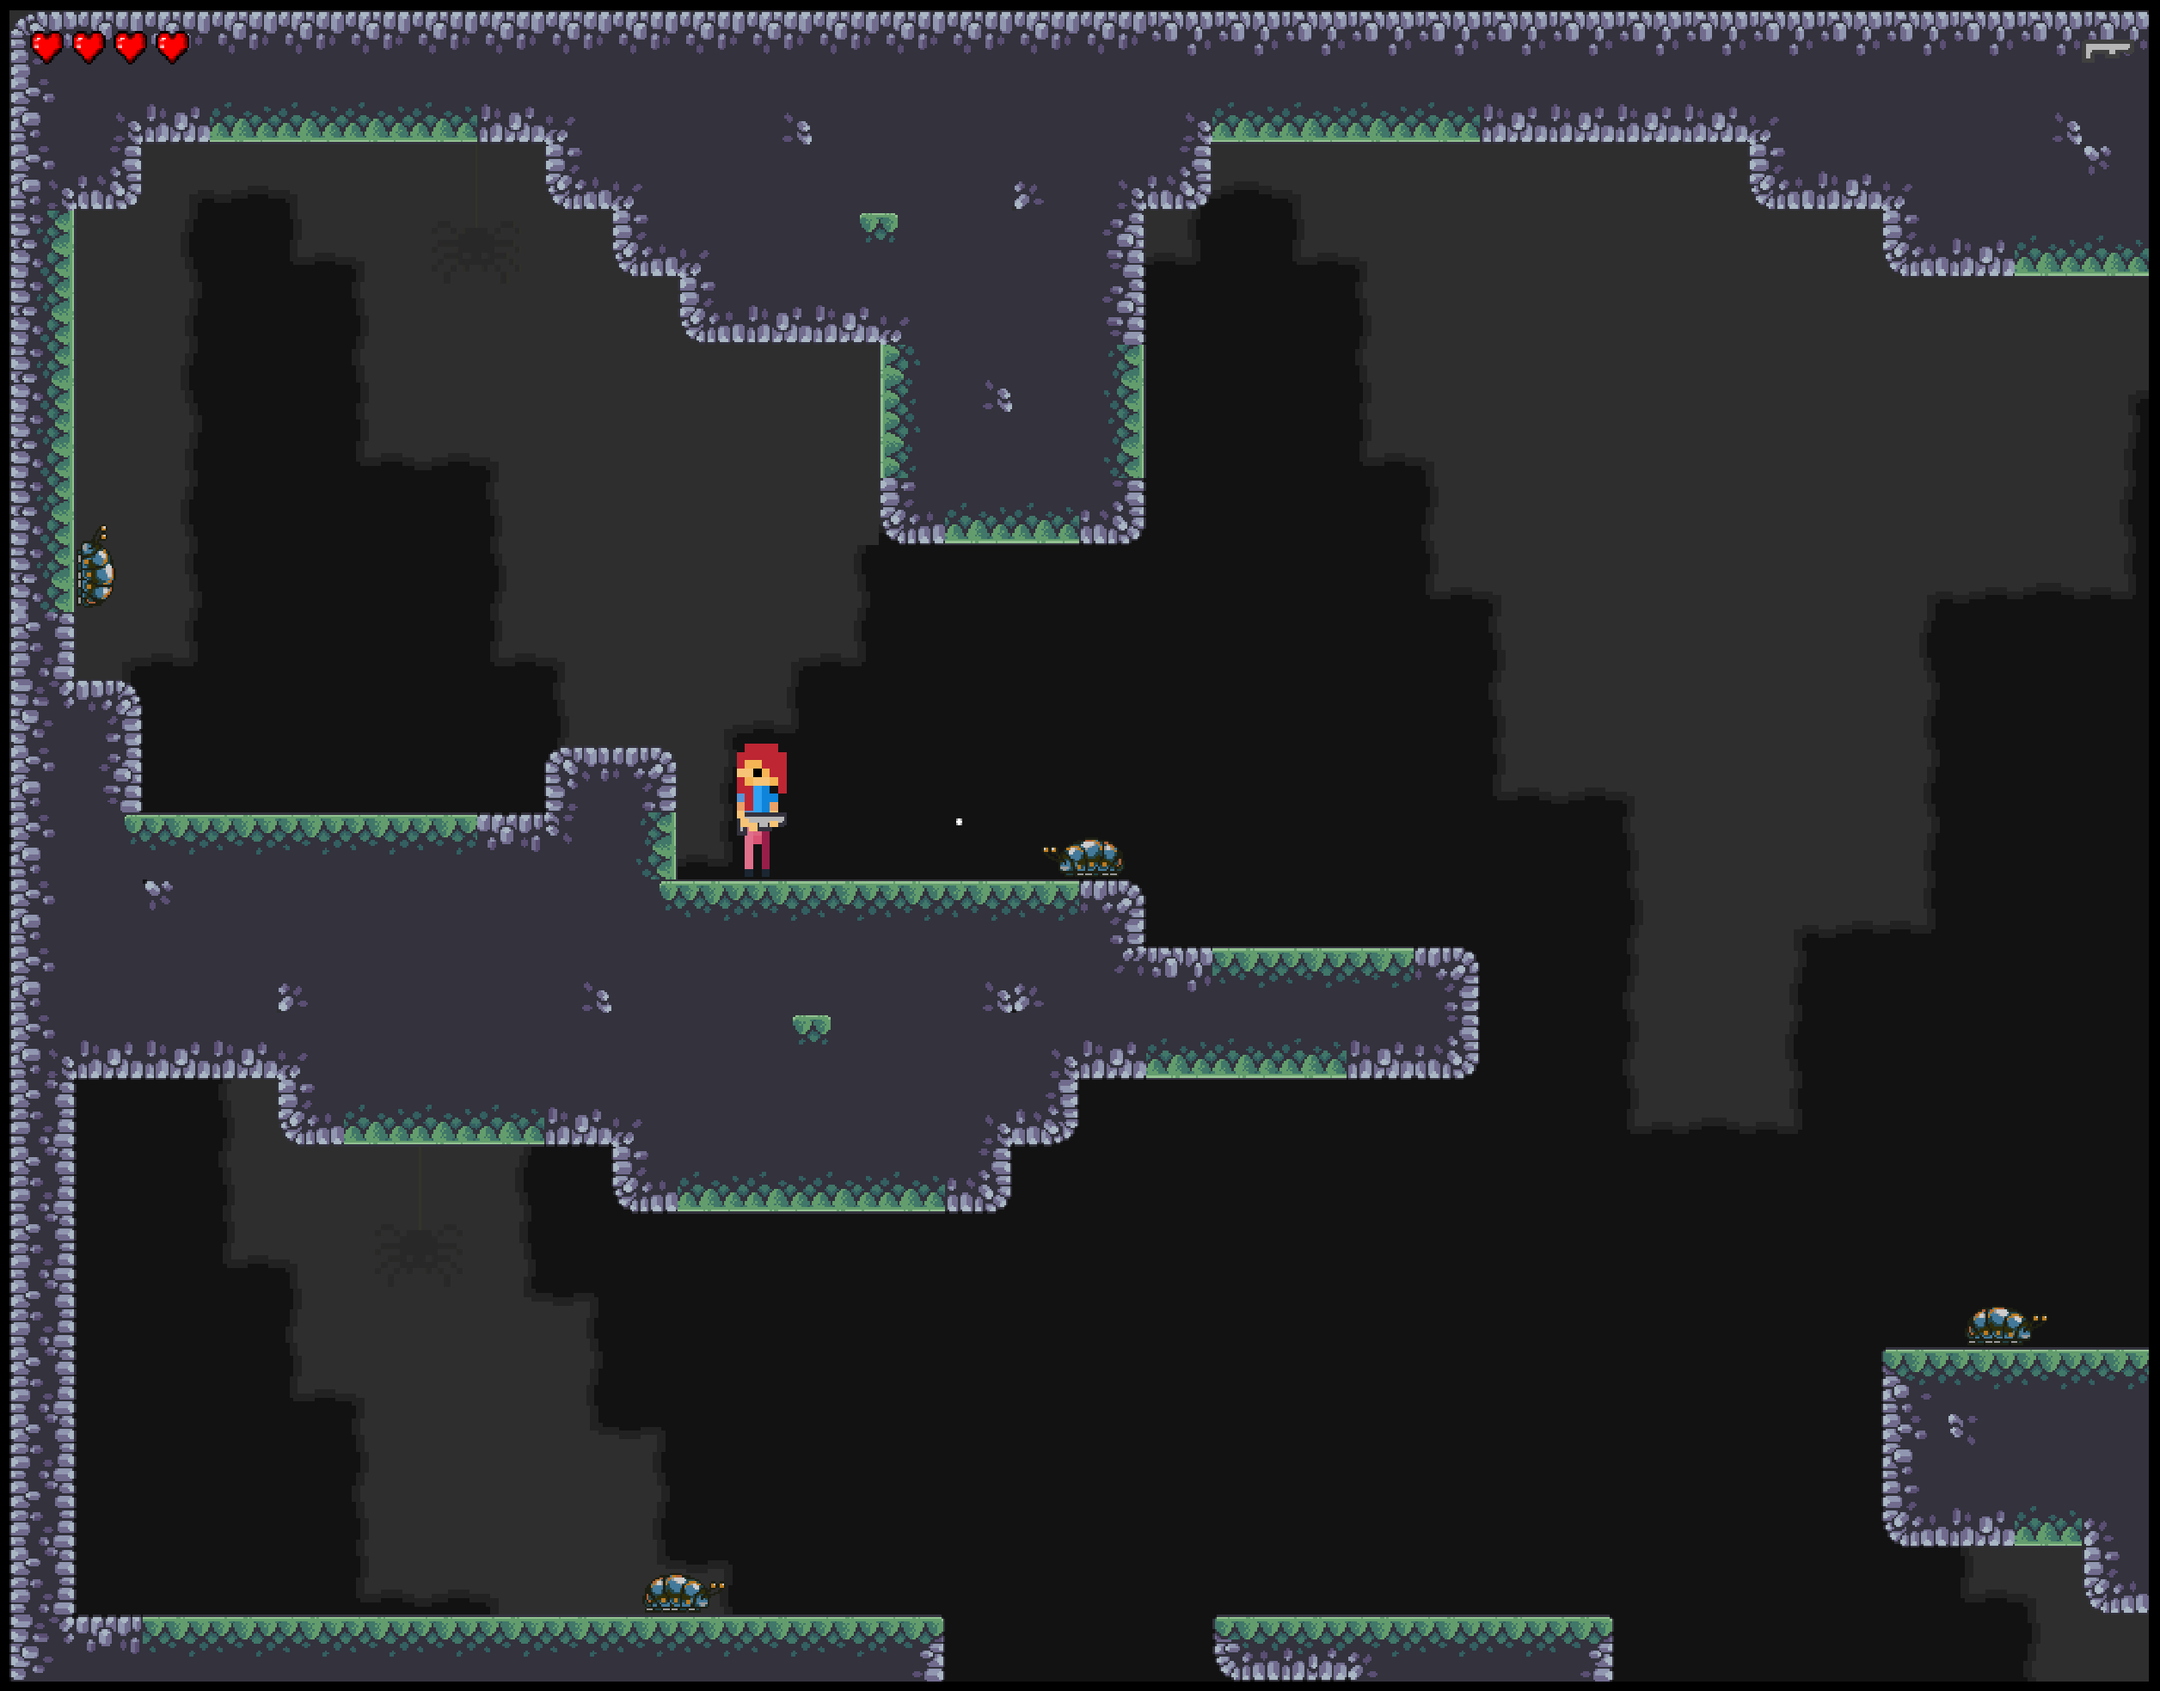
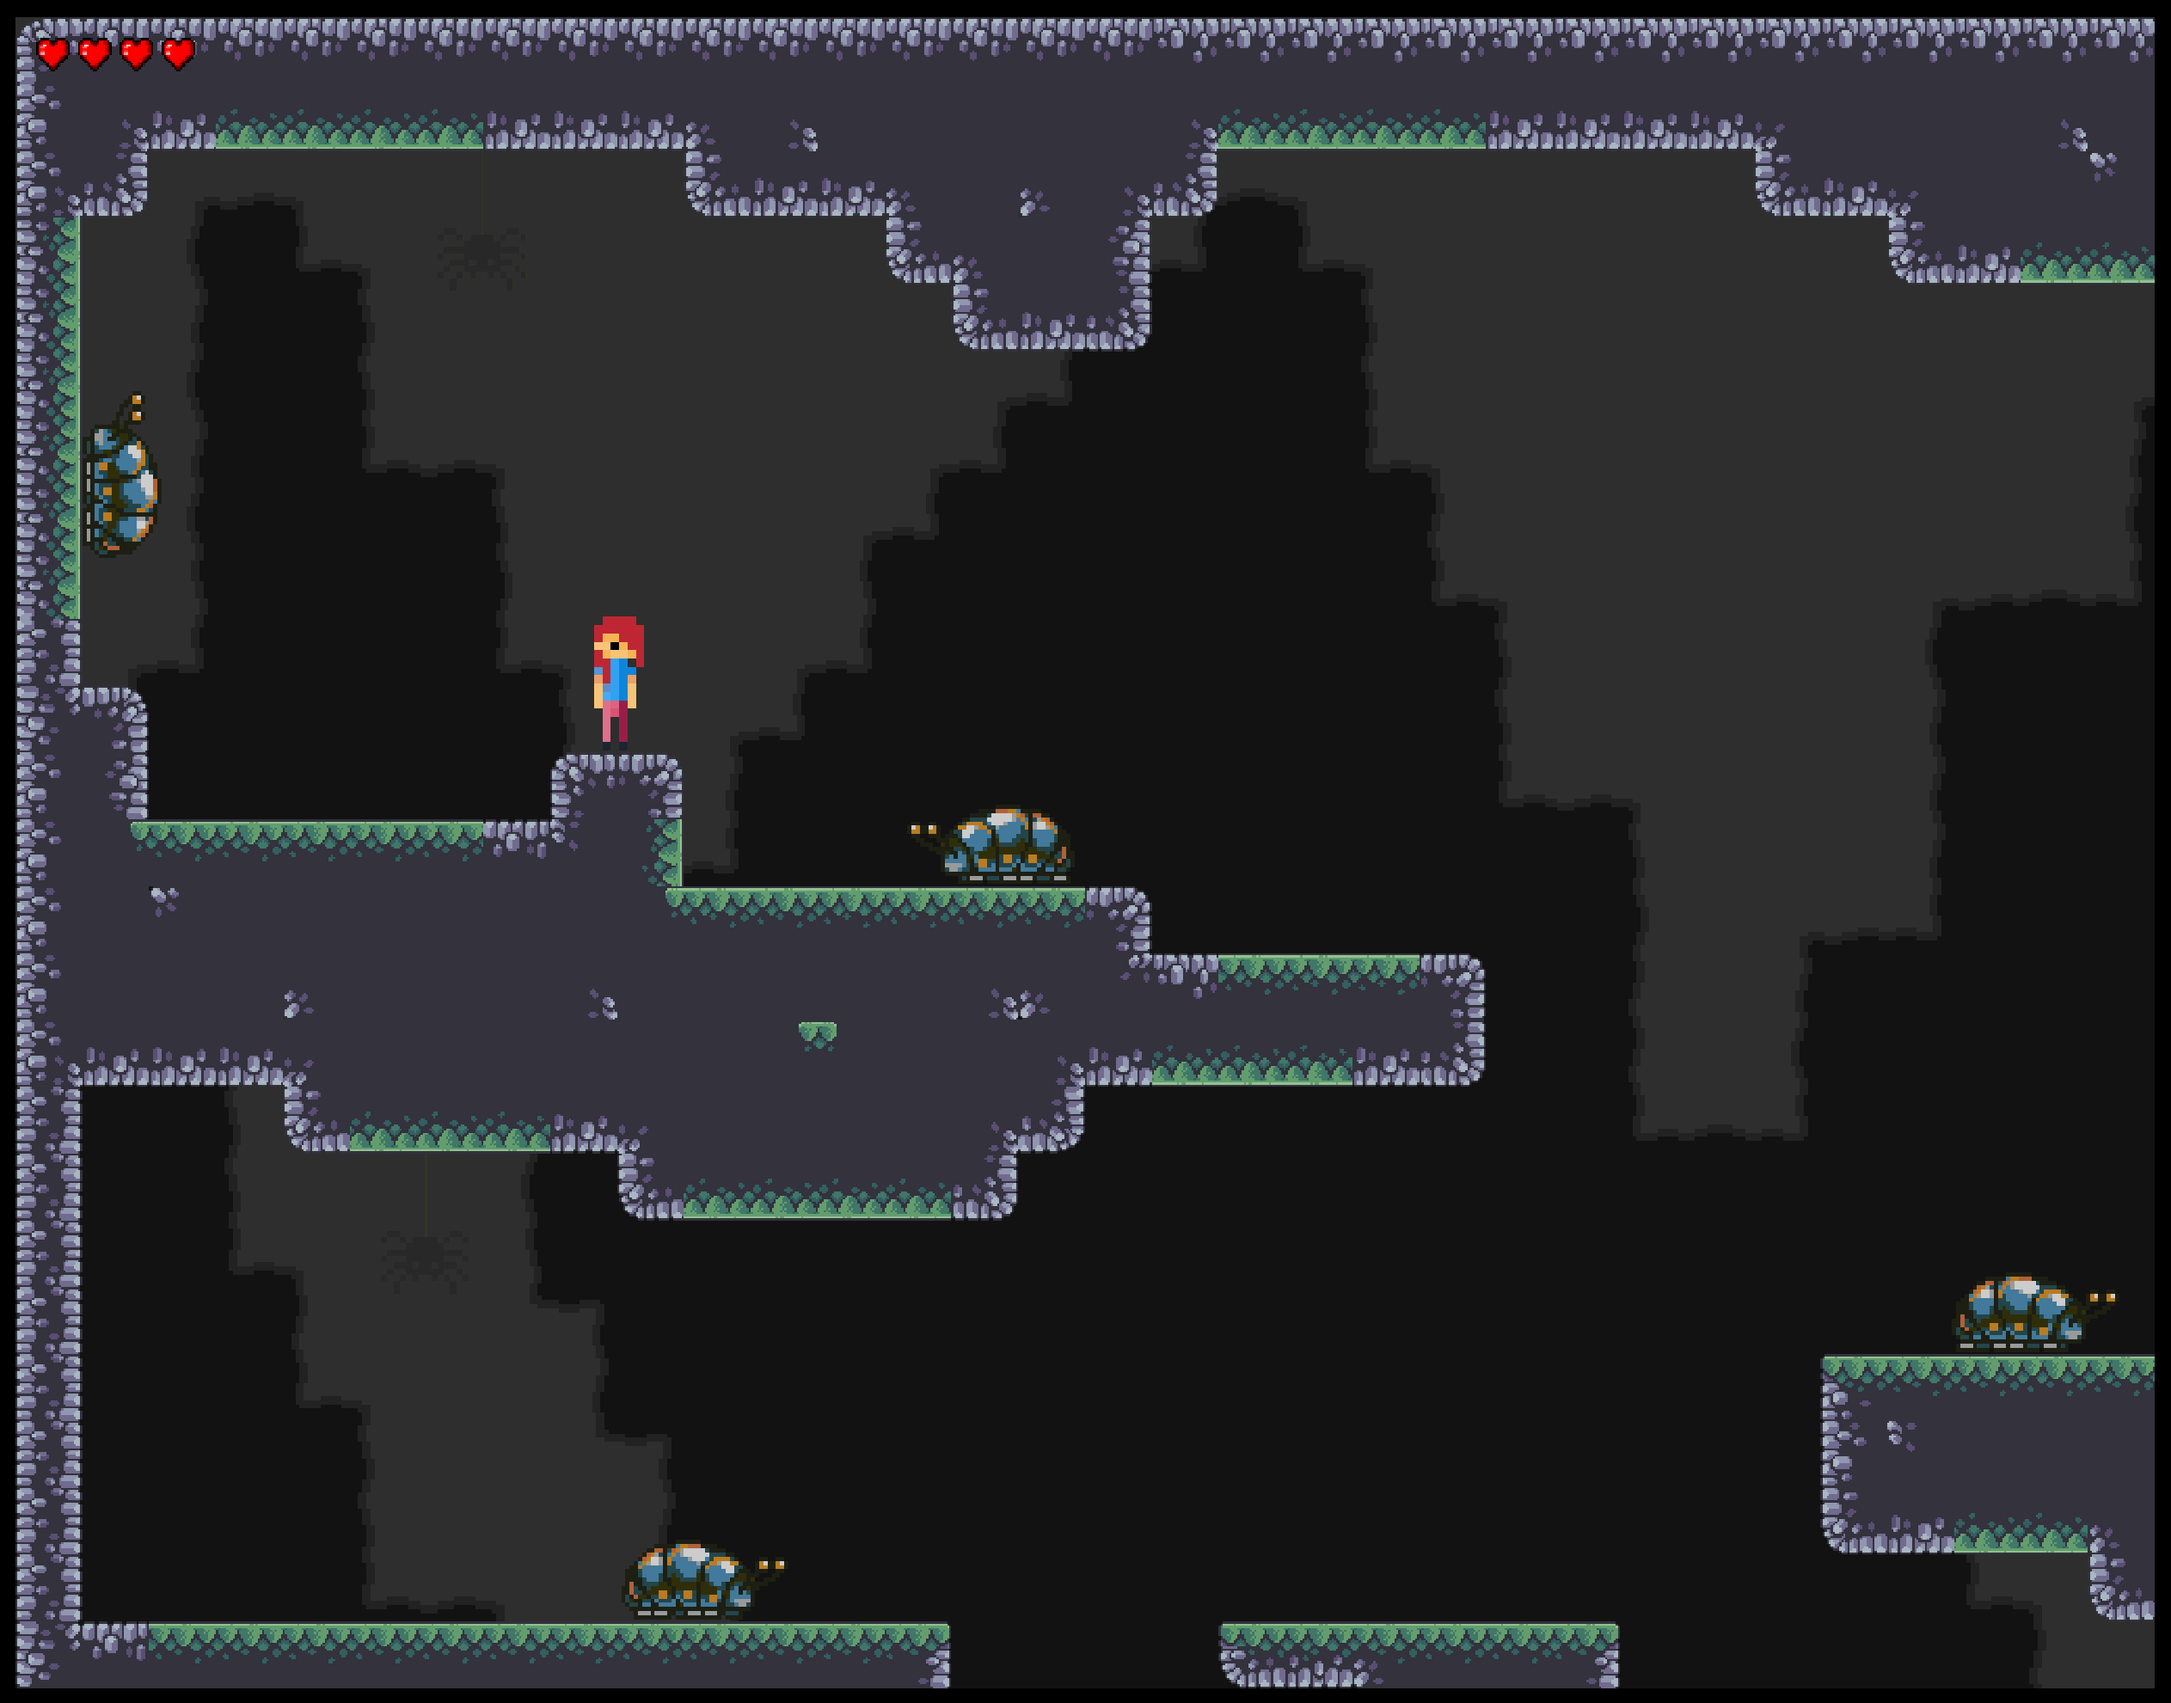
- Updated screenshot

diff --git a/src/config.js b/src/config.js
@@ -78,7 +78,7 @@ export default Config = {
   logoTimeout: 100,
 
   // game related
-  debug: true,
+  debug: false,
   upsDelay: 2,
   useSetTimeout: false,
   musicVolume: .6,
